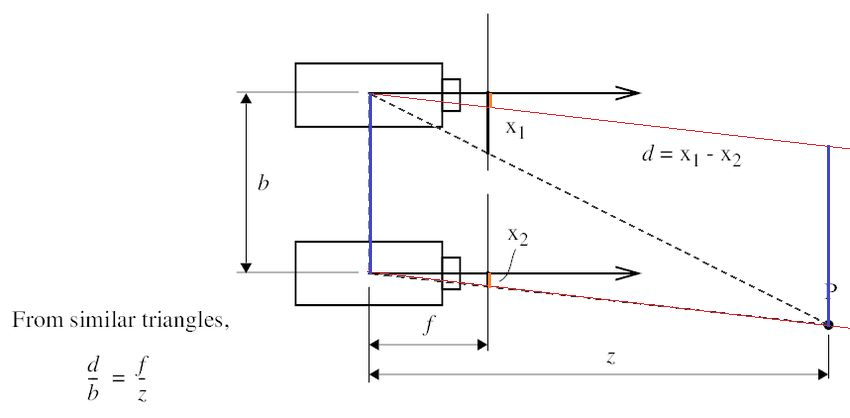
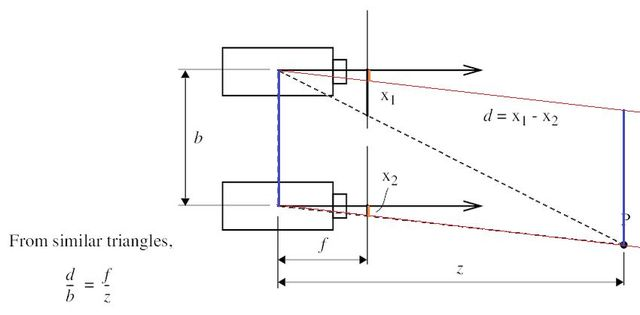
stereo disp-depth

diff --git a/_posts/2020-03-13-stereo-disp-depth.md b/_posts/2020-03-13-stereo-disp-depth.md
@@ -10,3 +10,12 @@ categories: math
 
 ![stereo_disp_depth](../images/stereo-disp-depth.jpg)
 
+구글 검색해서 나온 frame 에 보조선을 살짝 덧입혔다. 스테레오 카메라에서 양쪽 수평의 카메라를 calibration 을 통해 rectified image pair 를 얻어내는 상황이라고 가정하자. opencv 의 stereoCalibrate, stereoRectifify 같은 함수들을 찾아보면 된다.
+
+Disparity 는 월드상의 점 P 가 양쪽 이미지에 대해서 pixel 좌표간의 거리이고,  우리는 이미 stereo calibration 을 통해 epipolar line 들이 양쪽 이미지에 대해서 모두 x축과 나란해진 상태로 맞춰놨기 때문에, 위 그림과 같이  $x1-x2$ 로 표현된다. 위 아래의 빨간색 직선 두개는 서로 수평이고, 오른쪽 왼쪽의 파란색 직선 두개도 서로 수평이다. 또한 $x2$ 의 길이와 같은 선분을 오렌지색으로 소심하게 표현하였다. 즉 오른쪽 파란선의 길이도 baseline (두 카메라가 벌어진 거리 in real metric) 과 동일하고 위쪽 카메라부분에서  $x1-x2$  가 어느 부분인지 확인할 수 있다. 이때 위쪽 카메라에서 오른쪽으로 뻣어나가는 삼각형을 봤을때 
+
+$$
+f : x1-x2 = z : b
+$$
+
+인 것을 알 수 있다. 즉 $z = f * b / d$ 임을 알 수 있다.
